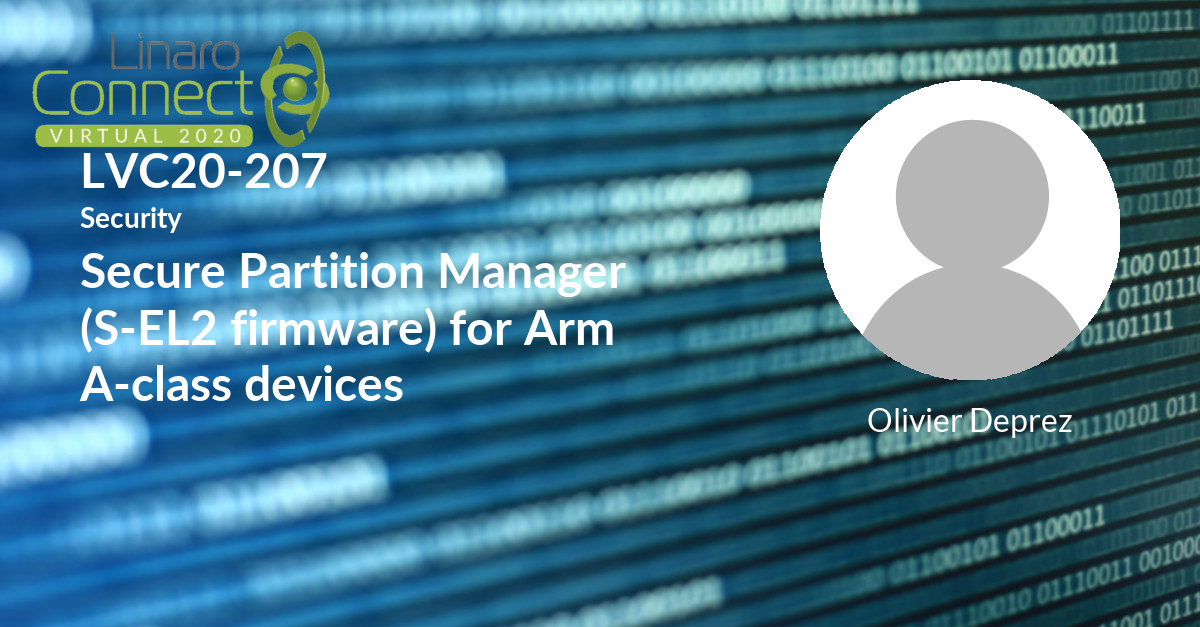
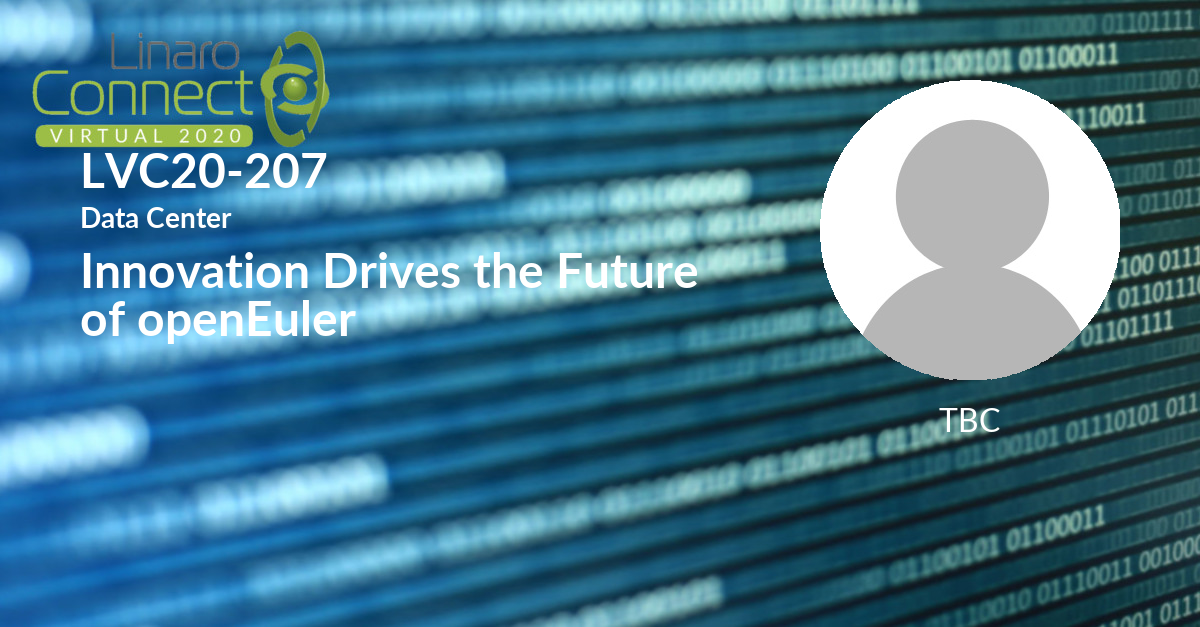
Session update for session-update-200814-1759

Changed region(s): [[0.0617, 0.3939, 0.5858, 0.6364], [0.7092, 0.6364, 0.8942, 0.697], [0.0617, 0.3333, 0.2158, 0.3636]]

diff --git a/_posts/lvc20/sessions/2020-08-14-lvc20-305.md b/_posts/lvc20/sessions/2020-08-14-lvc20-305.md
@@ -8,12 +8,12 @@ description: This session is about Arm's Secure Partition Manager (SPM) for A-cl
   It leverages the Platform Security Architecture Firmware Framework for A-class (PSA
   FF-A) specification. The presentation deals with brief history and use cases, SPM
   architecture, project status and plans.
-image: /assets/images/featured-images/lvc20/LVC20-207.png
-session_id: LVC20-207
-session_room: Linux/Android
+image: /assets/images/featured-images/lvc20/LVC20-305.png
+session_id: LVC20-305
+session_room: DataCenter
 session_slot:
-  end_time: 2020-09-23 10:55
-  start_time: 2020-09-23 10:30
+  end_time: 2020-09-24 16:35
+  start_time: 2020-09-24 16:15
 session_speakers:
 - speaker_bio: Olivier has 17 years experience in low-level embedded software and
     security starting with OMAP Boot ROM development and validation at TI, connectivity
@@ -28,5 +28,5 @@ session_speakers:
 session_track: Security
 tag: session
 tags: Security
-title: LVC20-207 Secure Partition Manager (S-EL2 firmware) for Arm A-class devices
+title: LVC20-305 Secure Partition Manager (S-EL2 firmware) for Arm A-class devices
 ---

diff --git a/_posts/lvc20/sessions/2020-08-14-lvc20-317.md b/_posts/lvc20/sessions/2020-08-14-lvc20-317.md
@@ -7,12 +7,12 @@ description: Each seismic survey in Oil & Gas exploration generates tons of seis
   This presentation will analyze the computing requirements and trends in seismic
   data processing, evaluate the competence of the current generations ARM64 SoCs and
   the new features required.
-image: /assets/images/featured-images/lvc20/LVC20-303.png
-session_id: LVC20-303
+image: /assets/images/featured-images/lvc20/LVC20-317.png
+session_id: LVC20-317
 session_room: DataCenter
 session_slot:
-  end_time: 2020-09-24 16:10
-  start_time: 2020-09-24 15:45
+  end_time: 2020-09-24 18:25
+  start_time: 2020-09-24 18:00
 session_speakers:
 - speaker_bio: Distinguished Technologist at Huawei/Futurewei, working on ARM64 Data
     Center Compute and Ascend AI Compute Ecosystem Building, Future Compute &amp;
@@ -49,6 +49,6 @@ session_speakers:
 session_track: HPC
 tag: session
 tags: HPC
-title: LVC20-303 Analysis of ARM64's Competence for Oil&Gas Seismic Data Processing
+title: LVC20-317 Analysis of ARM64's Competence for Oil&Gas Seismic Data Processing
   Applications
 ---

diff --git a/_posts/lvc20/sessions/2020-08-14-lvc20-207.md b/_posts/lvc20/sessions/2020-08-14-lvc20-207.md
@@ -1,0 +1,24 @@
+---
+categories:
+- lvc20
+description: OpenEuler is an open source, free Linux distribution platform. The platform
+  provides an open community for global developers to build an open, diversified,
+  and architecture-inclusive software ecosystem. OpenEuler is also an innovative platform
+  that encourages everyone to propose new ideas, explore new approaches, and practice
+  new solutions. The openEuler project will launch the 20.09 version in September
+  2020 includes a many new features. Dr Xiong Wei will introduce the new virtualization
+  implementation platform, the new features in the iSula which is a container engine
+  comply Open Container Initiative specification, a new project base OpenJDK and so
+  on.
+image: /assets/images/featured-images/lvc20/LVC20-207.png
+session_id: LVC20-207
+session_room: DataCenter
+session_slot:
+  end_time: 2020-09-23 10:55
+  start_time: 2020-09-23 10:30
+session_speakers: []
+session_track: Data Center
+tag: session
+tags: Data Center
+title: LVC20-207 Innovation Drives the Future of openEuler
+---

diff --git a/_posts/lvc20/sessions/2020-08-14-lvc20-303.md b/_posts/lvc20/sessions/2020-08-14-lvc20-303.md
@@ -7,12 +7,12 @@ description: This talk will walk you through the Journey Linaro BDDS team has go
   we are currently working on and we will highlight the tasks in our roadmap. We will
   provide updates on Bigtop project as well as updates on Big Data and Data science
   projects with CI setup on ARM hardware running in developer cloud.
-image: /assets/images/featured-images/lvc20/LVC20-305.png
-session_id: LVC20-305
+image: /assets/images/featured-images/lvc20/LVC20-303.png
+session_id: LVC20-303
 session_room: DataCenter
 session_slot:
-  end_time: 2020-09-24 16:40
-  start_time: 2020-09-24 16:15
+  end_time: 2020-09-24 16:10
+  start_time: 2020-09-24 15:45
 session_speakers:
 - speaker_bio: Contributor to Apache Bigtop and other big data projects&lt;br /&gt;
     Past TSC member of ODPi&lt;br /&gt; Vast implementation experience in Big Data
@@ -26,5 +26,5 @@ session_speakers:
 session_track: Big Data
 tag: session
 tags: Big Data
-title: LVC20-305 State of Big Data and Data Science on ARM
+title: LVC20-303 State of Big Data and Data Science on ARM
 ---
